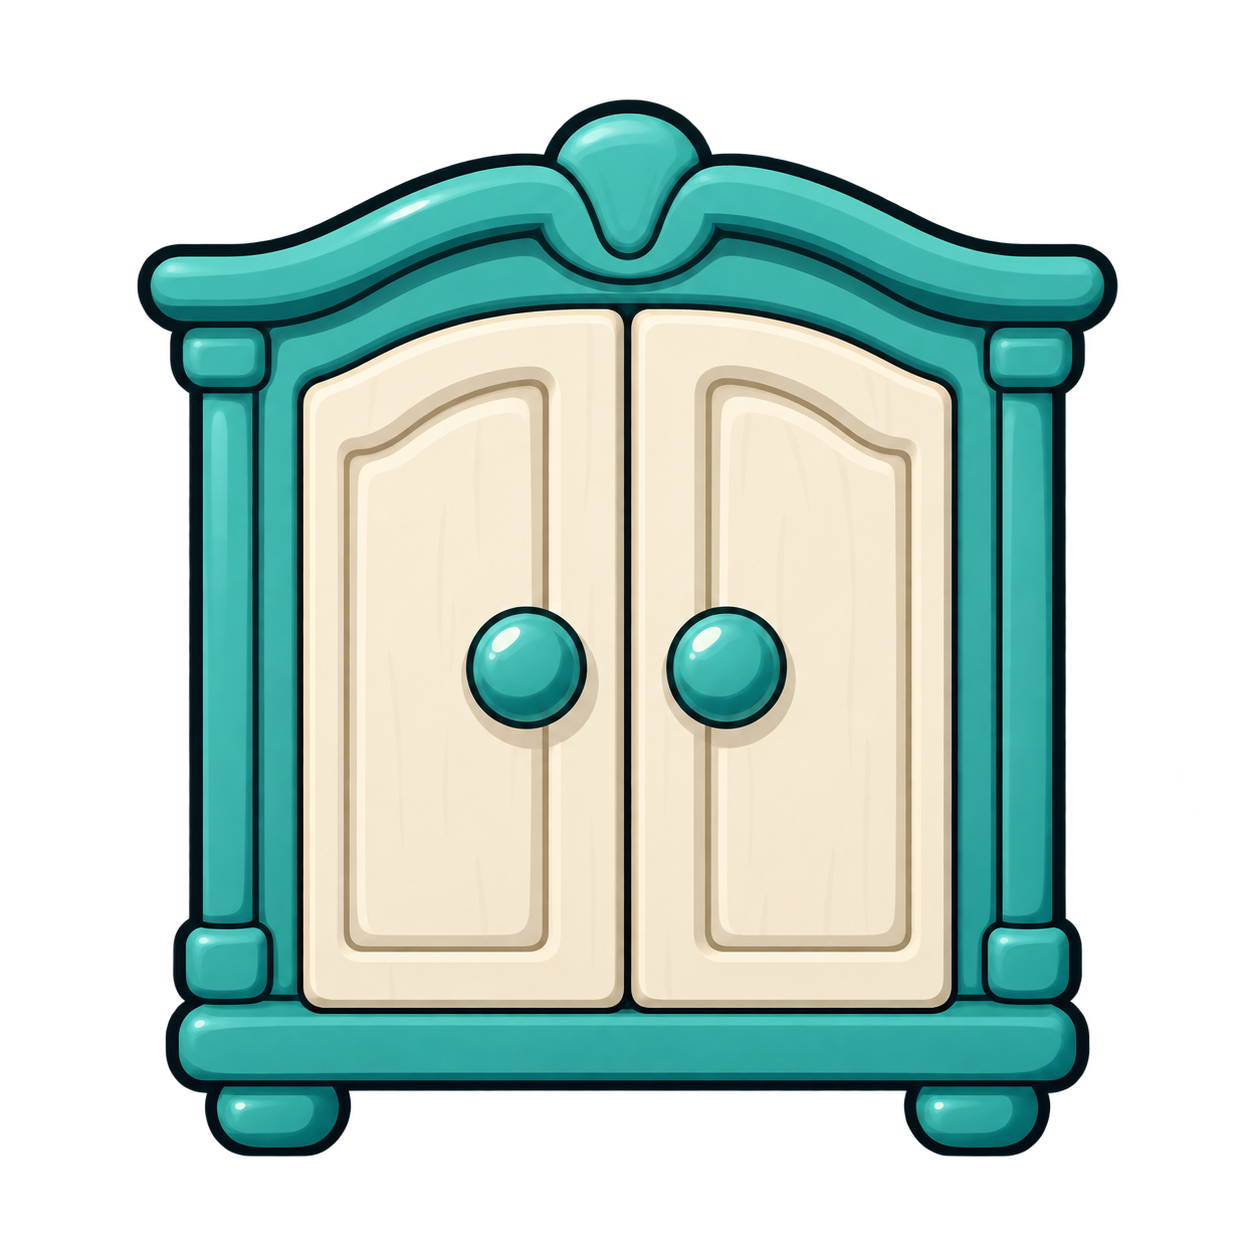
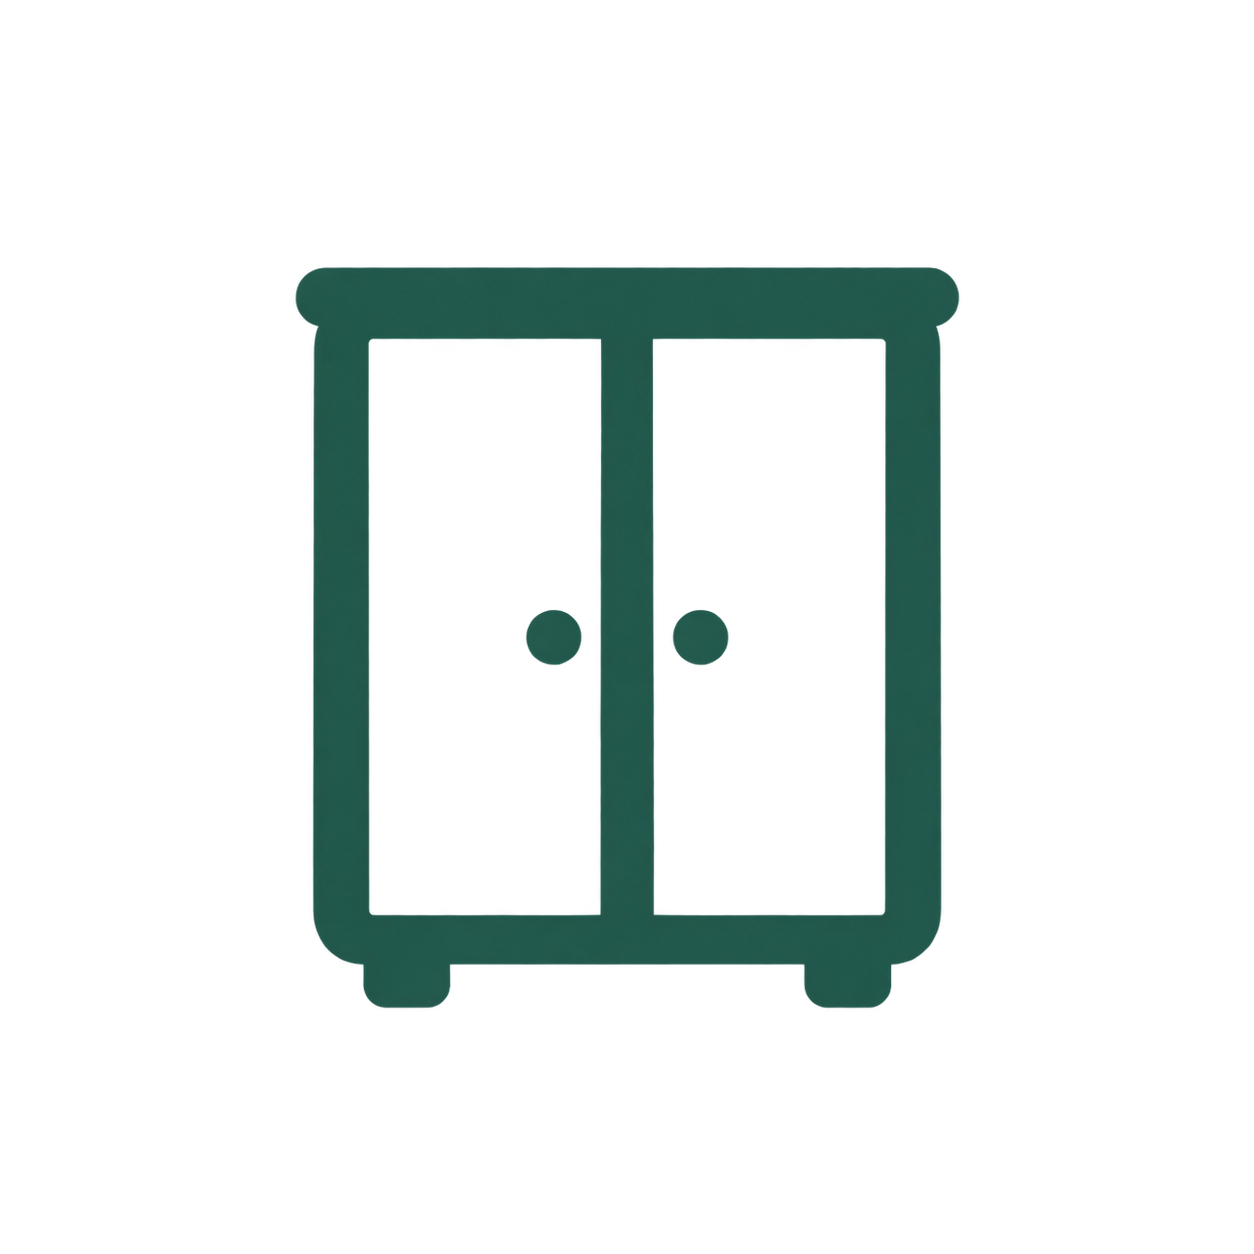
Simplify board symbols and orient stamps to each tile edge

diff --git a/docs/ui-trial/board-symbols-v02.md b/docs/ui-trial/board-symbols-v02.md
@@ -1,0 +1,11 @@
+# 단색 심볼과 타일별 방향 v0.2
+
+2026-10-21. 이전 v0.1의 입체감과 광택을 줄여 달라는 요청에 따라 보드 그림 여섯 종을 단순한 픽토그램으로 다시 생성했다. 빵은 타원과 세 개의 홈, 옷장은 문틀과 손잡이, 깃발은 막대와 체크 또는 삼각형, 진행 표시는 화살표와 삼중 꺾쇠만 남겼다.
+
+빵·옷장의 방향은 보드 전체의 고정 X축이 아니라 각 타일의 축을 따른다. 가로축은 해당 변의 진행 방향(타일의 짧은 변), 윗방향은 보드 중심, 아랫방향은 판 바깥쪽이다. 각 타일을 같은 방향으로 돌려 정면에서 보면 같은 배치가 된다. 코너·부스터는 다음 칸을 가리키는 방향을 사용한다. 깃발이 있는 두 코너의 작은 진행 화살표와 코랄 부스터 발판은 유지했다.
+
+PNG는 native image_gen.imagegen으로 만든 1254×1254 투명 원본이다. 빵 초안의 거친 가장자리와 홈은 도구에서 한 번 보정했다. 원본을 재가공하지 않고 복사하며, 런타임 flat_ink.gdshader가 알파 윤곽을 사용해 단색으로 칠한다. 원본의 미세한 색 변화와 광택이 화면에 남지 않는다. 빵 갈색·옷장 청록·진행 초록·부스터 크림색의 색상 구분을 사용한다. 기존 256px 임포트·품질 0.85·밉맵을 유지했다.
+
+실제 MainBoard, 확대 보드, 빵집 네 곳·옷장 두 곳·코너 두 곳의 단일 타일, 부스터 위 함정을 캡처해 확인했다. 24/32칸에서 방향·보드 기울기·아이콘 윗방향 검사를 포함한 전체 495개 테스트가 통과했다. 기존 Godot 종료 시 자원 경고는 남아 있다.
+
+assets/board/decals/manifest.json에 원본·전체 프롬프트·보정 이유·SHA-256·알파 윤곽 영역을 기록했다. 워크스페이스 outputs/board-symbols-v02/에는 PNG 원본, tiles.png, board.png, game.png, trap_override.png, 교체 전 그림, 거절 초안, 생성 프롬프트, 배포 검증 기록을 보관한다.
